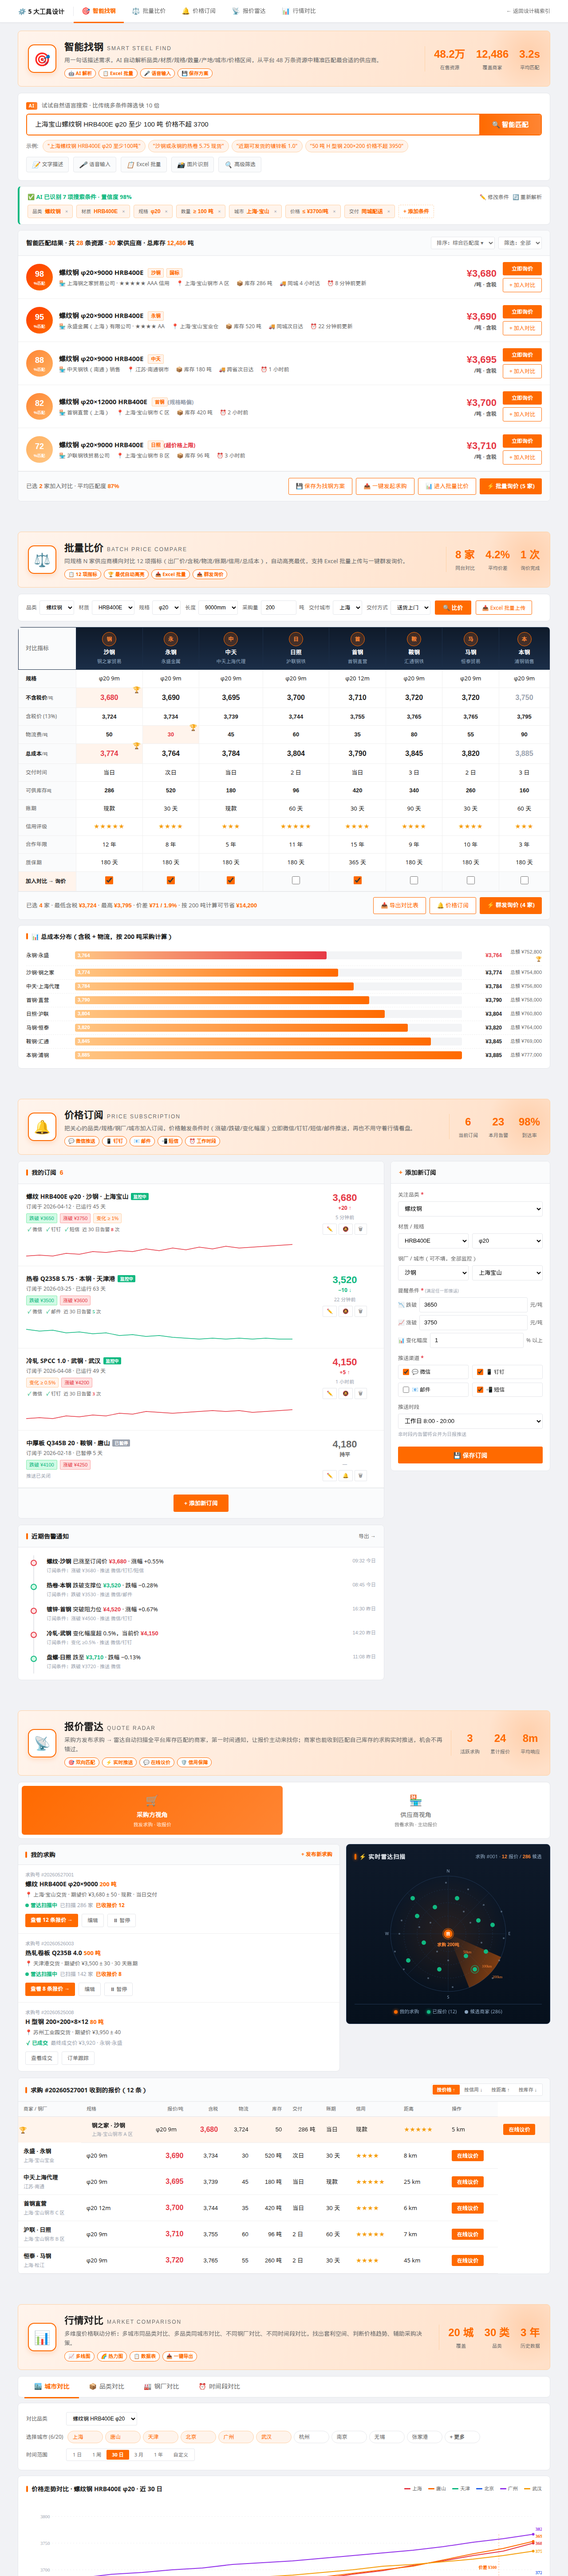
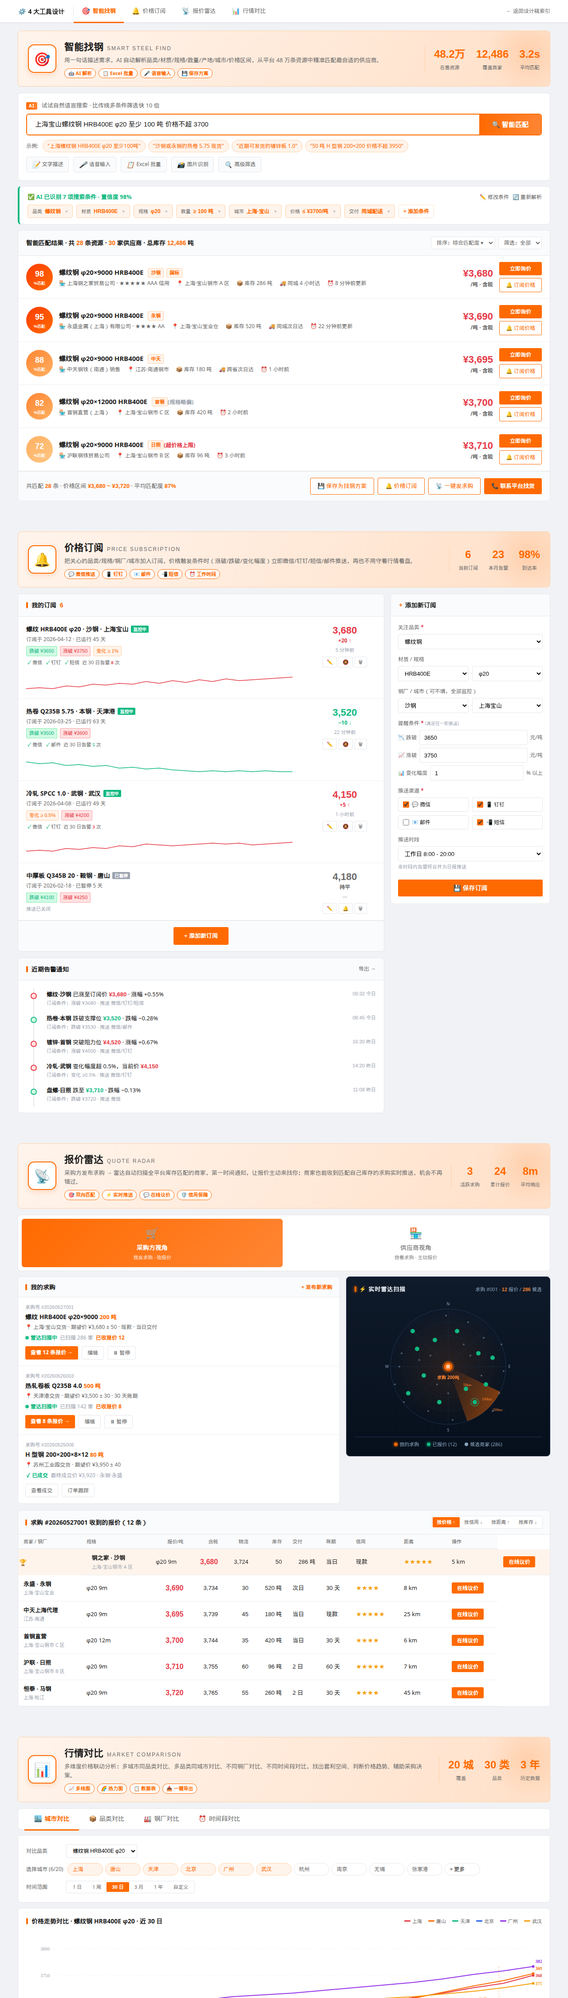
fix(designs): 彻底清理批量比价残留
【mockup-tools.html】
- 删除整个「批量比价」章节 (#tool-2)：比价查询条件 / 8 列比价表 / 总成本分布柱状图 / 11 项指标对比 全部移除
- 顶部锚点导航去掉「批量比价」入口（5 → 4 tab）
- title 与「4 大工具详细设计」对齐
- 章节重新编号（原 3/4/5 → 2/3/4）

【智能找钢章节彻底清理对比相关】
- 5 张匹配结果卡：「+ 加入对比」按钮 → 全部替换为「🔔 订阅价格」
- 底部操作栏改写：
  · 「已选 X 家加入对比 · 平均匹配度」→「共匹配 28 条 · 价格区间 · 平均匹配度」
  · 「进入批量比价」按钮 → 「价格订阅」
  · 「批量询价 (5 家)」→ 「📞 联系平台找货」
  · 保留「保存为找钢方案」「一键发求购」
- 全文不再出现「比价 / 对比 / 加入对比」字样

【index.html】
- 文案 5 大工具 → 4 大工具
- 工具图标列表去掉⚖批量比价

【v2 首页本身已经是干净的】（无任何批量比价/⚖残留 - 用户看到的可能是浏览器缓存）

diff --git a/designs/mockup-tools.html b/designs/mockup-tools.html
@@ -3,7 +3,7 @@
 <head>
 <meta charset="UTF-8">
 <meta name="viewport" content="width=1280">
-<title>货袋子 · 5 大工具详细设计 | 智能找钢 / 批量比价 / 价格订阅 / 报价雷达 / 行情对比</title>
+<title>货袋子 · 4 大工具详细设计 | 智能找钢 / 价格订阅 / 报价雷达 / 行情对比</title>
 <link rel="stylesheet" href="./assets/common.css">
 <link rel="stylesheet" href="./assets/workbench.css">
 <link rel="stylesheet" href="./assets/tools.css">
@@ -13,9 +13,8 @@
 <!-- 顶部锚点导航 -->
 <nav class="tools-nav">
   <div class="wrap">
-    <div class="lb"><i>⚙</i>5 大工具设计</div>
+    <div class="lb"><i>⚙</i>4 大工具设计</div>
     <a href="#tool-1" class="on"><span class="ic">🎯</span>智能找钢</a>
-    <a href="#tool-2"><span class="ic">⚖</span>批量比价</a>
     <a href="#tool-3"><span class="ic">🔔</span>价格订阅</a>
     <a href="#tool-4"><span class="ic">📡</span>报价雷达</a>
     <a href="#tool-5"><span class="ic">📊</span>行情对比</a>
@@ -111,7 +110,7 @@
         </div>
         <div class="actions">
           <a class="pri">立即询价</a>
-          <a class="out">+ 加入对比</a>
+          <a class="out">🔔 订阅价格</a>
         </div>
       </div>
 
@@ -133,7 +132,7 @@
         </div>
         <div class="actions">
           <a class="pri">立即询价</a>
-          <a class="out">+ 加入对比</a>
+          <a class="out">🔔 订阅价格</a>
         </div>
       </div>
 
@@ -155,7 +154,7 @@
         </div>
         <div class="actions">
           <a class="pri">立即询价</a>
-          <a class="out">+ 加入对比</a>
+          <a class="out">🔔 订阅价格</a>
         </div>
       </div>
 
@@ -176,7 +175,7 @@
         </div>
         <div class="actions">
           <a class="pri">立即询价</a>
-          <a class="out">+ 加入对比</a>
+          <a class="out">🔔 订阅价格</a>
         </div>
       </div>
 
@@ -197,16 +196,16 @@
         </div>
         <div class="actions">
           <a class="pri">立即询价</a>
-          <a class="out">+ 加入对比</a>
+          <a class="out">🔔 订阅价格</a>
         </div>
       </div>
 
       <div class="ai-action-bar">
-        <div class="info">已选 <b>2</b> 家加入对比 · 平均匹配度 <b>87%</b></div>
+        <div class="info">共匹配 <b>28</b> 条 · 价格区间 <b>¥3,680 ~ ¥3,720</b> · 平均匹配度 <b>87%</b></div>
         <a class="out">💾 保存为找钢方案</a>
-        <a class="out">📤 一键发起求购</a>
-        <a class="out">📊 进入批量比价</a>
-        <a class="pri">⚡ 批量询价 (5 家)</a>
+        <a class="out">🔔 价格订阅</a>
+        <a class="out">📡 一键发求购</a>
+        <a class="pri">📞 联系平台找货</a>
       </div>
     </div>
 
@@ -215,195 +214,7 @@
 
 <div class="tool-sep"></div>
 
-<!-- ========== 2. 批量比价 ========== -->
-<span class="anchor" id="tool-2"></span>
-<section class="tool-page">
-  <div class="wrap">
-
-    <div class="tool-intro">
-      <div class="ic-big">⚖</div>
-      <div class="info">
-        <h2>批量比价<small>BATCH PRICE COMPARE</small></h2>
-        <p>同规格 N 家供应商横向对比 12 项指标（出厂价/含税/物流/账期/信用/总成本），自动高亮最优，支持 Excel 批量上传与一键群发询价。</p>
-        <div class="badges"><span>📋 12 项指标</span><span>🏆 最优自动高亮</span><span>📥 Excel 批量</span><span>📤 群发询价</span></div>
-      </div>
-      <div class="stats">
-        <div class="it"><b>8 家</b><span>同台对比</span></div>
-        <div class="it"><b>4.2%</b><span>平均价差</span></div>
-        <div class="it"><b>1 次</b><span>询价完成</span></div>
-      </div>
-    </div>
-
-    <!-- 查询条件 -->
-    <div class="bc-query">
-      <span class="grp"><label>品类</label><select><option>螺纹钢</option></select></span>
-      <span class="grp"><label>材质</label><select><option>HRB400E</option></select></span>
-      <span class="grp"><label>规格</label><select><option>φ20</option></select></span>
-      <span class="grp"><label>长度</label><select><option>9000mm</option></select></span>
-      <span class="grp"><label>采购量</label><input style="width:80px" value="200"><span style="font-size:12px;color:#6B6B6B">吨</span></span>
-      <span class="grp"><label>交付城市</label><select><option>上海</option></select></span>
-      <span class="grp"><label>交付方式</label><select><option>送货上门</option></select></span>
-      <button class="btn-go">🔍 比价</button>
-      <button class="btn-excel">📥 Excel 批量上传</button>
-    </div>
-
-    <!-- 比价表 -->
-    <div class="bc-table-wrap">
-      <table class="bc-table">
-        <thead>
-          <tr>
-            <th class="col-key">对比指标</th>
-            <th>
-              <div class="av">钢</div>
-              <div>沙钢</div>
-              <div class="mn">钢之家贸易</div>
-            </th>
-            <th>
-              <div class="av">永</div>
-              <div>永钢</div>
-              <div class="mn">永盛金属</div>
-            </th>
-            <th>
-              <div class="av">中</div>
-              <div>中天</div>
-              <div class="mn">中天上海代理</div>
-            </th>
-            <th>
-              <div class="av">日</div>
-              <div>日照</div>
-              <div class="mn">沪联钢铁</div>
-            </th>
-            <th>
-              <div class="av">首</div>
-              <div>首钢</div>
-              <div class="mn">首钢直营</div>
-            </th>
-            <th>
-              <div class="av">鞍</div>
-              <div>鞍钢</div>
-              <div class="mn">汇通钢铁</div>
-            </th>
-            <th>
-              <div class="av">马</div>
-              <div>马钢</div>
-              <div class="mn">恒泰贸易</div>
-            </th>
-            <th>
-              <div class="av">本</div>
-              <div>本钢</div>
-              <div class="mn">浦钢销售</div>
-            </th>
-          </tr>
-        </thead>
-        <tbody>
-          <tr>
-            <td class="col-key"><b>规格</b></td>
-            <td>φ20 9m</td><td>φ20 9m</td><td>φ20 9m</td><td>φ20 9m</td><td>φ20 12m</td><td>φ20 9m</td><td>φ20 9m</td><td>φ20 9m</td>
-          </tr>
-          <tr>
-            <td class="col-key"><b>不含税价</b><small>/吨</small></td>
-            <td class="num price best">3,680</td>
-            <td class="num price">3,690</td>
-            <td class="num price">3,695</td>
-            <td class="num price">3,700</td>
-            <td class="num price">3,710</td>
-            <td class="num price">3,720</td>
-            <td class="num price">3,720</td>
-            <td class="num price worst">3,750</td>
-          </tr>
-          <tr>
-            <td class="col-key">含税价 (13%)</td>
-            <td class="num">3,724</td><td class="num">3,734</td><td class="num">3,739</td><td class="num">3,744</td><td class="num">3,755</td><td class="num">3,765</td><td class="num">3,765</td><td class="num">3,795</td>
-          </tr>
-          <tr>
-            <td class="col-key">物流费<small>/吨</small></td>
-            <td class="num">50</td><td class="num best">30</td><td class="num">45</td><td class="num">60</td><td class="num">35</td><td class="num">80</td><td class="num">55</td><td class="num">90</td>
-          </tr>
-          <tr>
-            <td class="col-key"><b>总成本</b><small>/吨</small></td>
-            <td class="num price best">3,774</td>
-            <td class="num price">3,764</td>
-            <td class="num price">3,784</td>
-            <td class="num price">3,804</td>
-            <td class="num price">3,790</td>
-            <td class="num price">3,845</td>
-            <td class="num price">3,820</td>
-            <td class="num price worst">3,885</td>
-          </tr>
-          <tr>
-            <td class="col-key">交付时间</td>
-            <td>当日</td><td>次日</td><td>当日</td><td>2 日</td><td>当日</td><td>3 日</td><td>2 日</td><td>3 日</td>
-          </tr>
-          <tr>
-            <td class="col-key">可供库存<small>吨</small></td>
-            <td class="num">286</td><td class="num">520</td><td class="num">180</td><td class="num">96</td><td class="num">420</td><td class="num">340</td><td class="num">260</td><td class="num">160</td>
-          </tr>
-          <tr>
-            <td class="col-key">账期</td>
-            <td>现款</td><td>30 天</td><td>现款</td><td>60 天</td><td>30 天</td><td>90 天</td><td>30 天</td><td>60 天</td>
-          </tr>
-          <tr>
-            <td class="col-key">信用评级</td>
-            <td class="stars">★★★★★</td>
-            <td class="stars">★★★★</td>
-            <td class="stars">★★★</td>
-            <td class="stars">★★★★★</td>
-            <td class="stars">★★★★</td>
-            <td class="stars">★★★★</td>
-            <td class="stars">★★★★</td>
-            <td class="stars">★★★</td>
-          </tr>
-          <tr>
-            <td class="col-key">合作年限</td>
-            <td>12 年</td><td>8 年</td><td>5 年</td><td>11 年</td><td>15 年</td><td>9 年</td><td>10 年</td><td>3 年</td>
-          </tr>
-          <tr>
-            <td class="col-key">质保期</td>
-            <td>180 天</td><td>180 天</td><td>180 天</td><td>180 天</td><td>365 天</td><td>180 天</td><td>180 天</td><td>180 天</td>
-          </tr>
-          <tr class="row-check">
-            <td class="col-key" style="background:#FFF4EC"><b>加入对比 → 询价</b></td>
-            <td><input type="checkbox" checked></td>
-            <td><input type="checkbox" checked></td>
-            <td><input type="checkbox" checked></td>
-            <td><input type="checkbox"></td>
-            <td><input type="checkbox" checked></td>
-            <td><input type="checkbox"></td>
-            <td><input type="checkbox"></td>
-            <td><input type="checkbox"></td>
-          </tr>
-        </tbody>
-      </table>
-
-      <div class="bc-foot">
-        <div class="l">已选 <b>4</b> 家 · 最低含税 <b>¥3,724</b> · 最高 <b>¥3,795</b> · 价差 <b>¥71 / 1.9%</b> · 按 200 吨计算可节省 <b>¥14,200</b></div>
-        <div class="r">
-          <a class="out">📥 导出对比表</a>
-          <a class="out">🔔 价格订阅</a>
-          <a class="pri">⚡ 群发询价 (4 家)</a>
-        </div>
-      </div>
-    </div>
-
-    <!-- 总成本分布柱状 -->
-    <div class="bc-dist">
-      <div class="h">📊 总成本分布（含税 + 物流，按 200 吨采购计算）</div>
-      <div class="bc-dist-row"><span class="nm">永钢·永盛</span><div class="bar"><div class="fl best" style="width:65%">3,764</div></div><span class="px best">¥3,764</span><span class="tt">总额 ¥752,800 🏆</span></div>
-      <div class="bc-dist-row"><span class="nm">沙钢·钢之家</span><div class="bar"><div class="fl" style="width:68%">3,774</div></div><span class="px">¥3,774</span><span class="tt">总额 ¥754,800</span></div>
-      <div class="bc-dist-row"><span class="nm">中天·上海代理</span><div class="bar"><div class="fl" style="width:72%">3,784</div></div><span class="px">¥3,784</span><span class="tt">总额 ¥756,800</span></div>
-      <div class="bc-dist-row"><span class="nm">首钢·直营</span><div class="bar"><div class="fl" style="width:76%">3,790</div></div><span class="px">¥3,790</span><span class="tt">总额 ¥758,000</span></div>
-      <div class="bc-dist-row"><span class="nm">日照·沪联</span><div class="bar"><div class="fl" style="width:80%">3,804</div></div><span class="px">¥3,804</span><span class="tt">总额 ¥760,800</span></div>
-      <div class="bc-dist-row"><span class="nm">马钢·恒泰</span><div class="bar"><div class="fl" style="width:86%">3,820</div></div><span class="px">¥3,820</span><span class="tt">总额 ¥764,000</span></div>
-      <div class="bc-dist-row"><span class="nm">鞍钢·汇通</span><div class="bar"><div class="fl" style="width:92%">3,845</div></div><span class="px">¥3,845</span><span class="tt">总额 ¥769,000</span></div>
-      <div class="bc-dist-row"><span class="nm">本钢·浦钢</span><div class="bar"><div class="fl" style="width:100%">3,885</div></div><span class="px">¥3,885</span><span class="tt">总额 ¥777,000</span></div>
-    </div>
-
-  </div>
-</section>
-
-<div class="tool-sep"></div>
-
-<!-- ========== 3. 价格订阅 ========== -->
+<!-- ========== 2. 价格订阅 ========== -->
 <span class="anchor" id="tool-3"></span>
 <section class="tool-page">
   <div class="wrap">
@@ -638,7 +449,7 @@
 
 <div class="tool-sep"></div>
 
-<!-- ========== 4. 报价雷达 ========== -->
+<!-- ========== 3. 报价雷达 ========== -->
 <span class="anchor" id="tool-4"></span>
 <section class="tool-page">
   <div class="wrap">
@@ -863,7 +674,7 @@
 
 <div class="tool-sep"></div>
 
-<!-- ========== 5. 行情对比 ========== -->
+<!-- ========== 4. 行情对比 ========== -->
 <span class="anchor" id="tool-5"></span>
 <section class="tool-page">
   <div class="wrap">

diff --git a/designs/index.html b/designs/index.html
@@ -65,8 +65,8 @@ h1{font-size:26px;margin-bottom:8px}
     </a>
     <a href="./mockup-tools.html" target="_blank" class="reco">
       <div>
-        <div class="t">⚙ 5 大工具详细设计（基于 v2 工作台版）mockup-tools.html ← 最新</div>
-        <div class="d">🎯 智能找钢 · ⚖ 批量比价 · 🔔 价格订阅 · 📡 报价雷达 · 📊 行情对比 全部工具页详细设计</div>
+        <div class="t">⚙ 4 大工具详细设计（基于 v2 工作台版）mockup-tools.html ← 最新</div>
+        <div class="d">🎯 智能找钢 · 🔔 价格订阅 · 📡 报价雷达 · 📊 行情对比 全部工具页详细设计（暂不提供批量比价）</div>
       </div>
       <div class="arrow">→</div>
     </a>
